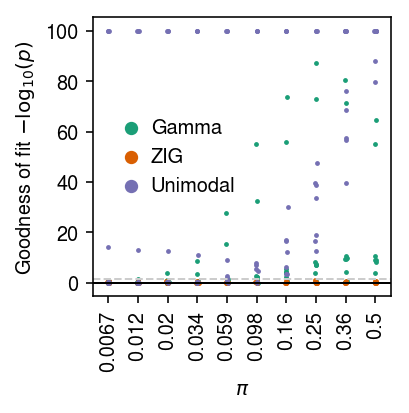
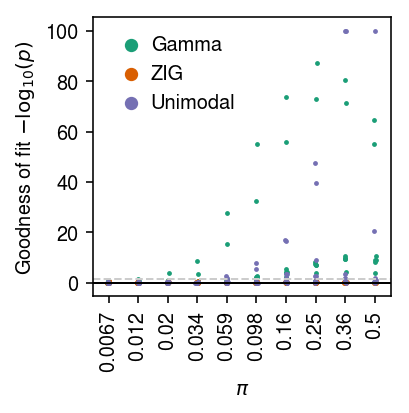
Re-run GOF simulation on updated version of ashr

diff --git a/docs/gof.html b/docs/gof.html
@@ -1,7 +1,7 @@
 <!DOCTYPE html>
 <html lang="en">
 <head>
-<!-- 2019-10-01 Tue 00:29 -->
+<!-- 2019-10-23 Wed 17:39 -->
 <meta charset="utf-8">
 <meta name="viewport" content="width=device-width, initial-scale=1">
 <title>Goodness of fit of deconvolved distributions</title>
@@ -262,7 +262,7 @@ for the JavaScript code in this tag.
 <li><a href="#setup">Setup</a></li>
 <li><a href="#org9458460">Methods</a>
 <ul>
-<li><a href="#orgee96b54">Test for goodness of fit</a></li>
+<li><a href="#org88c0e4b">Test for goodness of fit</a></li>
 <li><a href="#org1e959d4">Poisson-unimodal goodness of fit</a></li>
 <li><a href="#orgfd5c235">Data</a></li>
 </ul>
@@ -340,9 +340,9 @@ Here, we directly test for the goodness of fit of the estimated distribution
 <h2 id="org9458460">Methods</h2>
 <div class="outline-text-2" id="text-org9458460">
 </div>
-<div id="outline-container-orgee96b54" class="outline-3">
-<h3 id="orgee96b54">Test for goodness of fit</h3>
-<div class="outline-text-3" id="text-orgee96b54">
+<div id="outline-container-org88c0e4b" class="outline-3">
+<h3 id="org88c0e4b">Test for goodness of fit</h3>
+<div class="outline-text-3" id="text-org88c0e4b">
 <p>
 The key idea underlying our test for goodness of fit is the fact that if
 \(x_{i} \sim F(\cdot)\), then \(F(x_{i}) \sim \operatorname{Uniform}(0,
@@ -620,7 +620,7 @@ Read the results.
 </p>
 
 <div class="org-src-container">
-<pre class="src src-ipython"><span class="org-variable-name">sim_results</span> = pd.read_csv(<span class="org-string">'/project2/mstephens/aksarkar/projects/singlecell-modes/data/gof/simulation.txt.gz'</span>, sep=<span class="org-string">'\t'</span>, compression=<span class="org-string">'gzip'</span>, index_col=0)
+<pre class="src src-ipython"><span class="org-variable-name">sim_res</span> = pd.read_csv(<span class="org-string">'/project2/mstephens/aksarkar/projects/singlecell-modes/data/gof/simulation.txt.gz'</span>, sep=<span class="org-string">'\t'</span>, compression=<span class="org-string">'gzip'</span>, index_col=0)
 </pre>
 </div>
 
@@ -681,8 +681,8 @@ plt.tight_layout()
 </div>
 </div>
 
-<div id="outline-container-org88c0e4b" class="outline-3">
-<h3 id="gof"><a id="org88c0e4b"></a>Test for goodness of fit</h3>
+<div id="outline-container-org778f044" class="outline-3">
+<h3 id="gof"><a id="org778f044"></a>Test for goodness of fit</h3>
 <div class="outline-text-3" id="text-gof">
 <p>
 Run the GPU-based methods.
@@ -960,7 +960,7 @@ fig.tight_layout()
 </div>
 <div id="postamble" class="status">
 <p class="author">Author: Abhishek Sarkar</p>
-<p class="date">Created: 2019-10-01 Tue 00:29</p>
+<p class="date">Created: 2019-10-23 Wed 17:39</p>
 <p class="validation"><a href="http://validator.w3.org/check?uri=referer">Validate</a></p>
 </div>
 </body>
